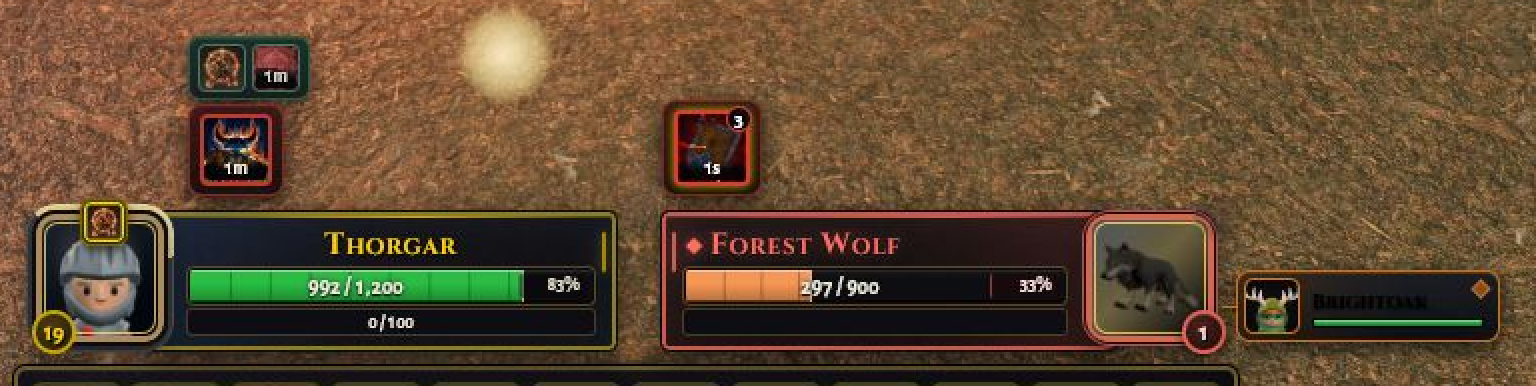
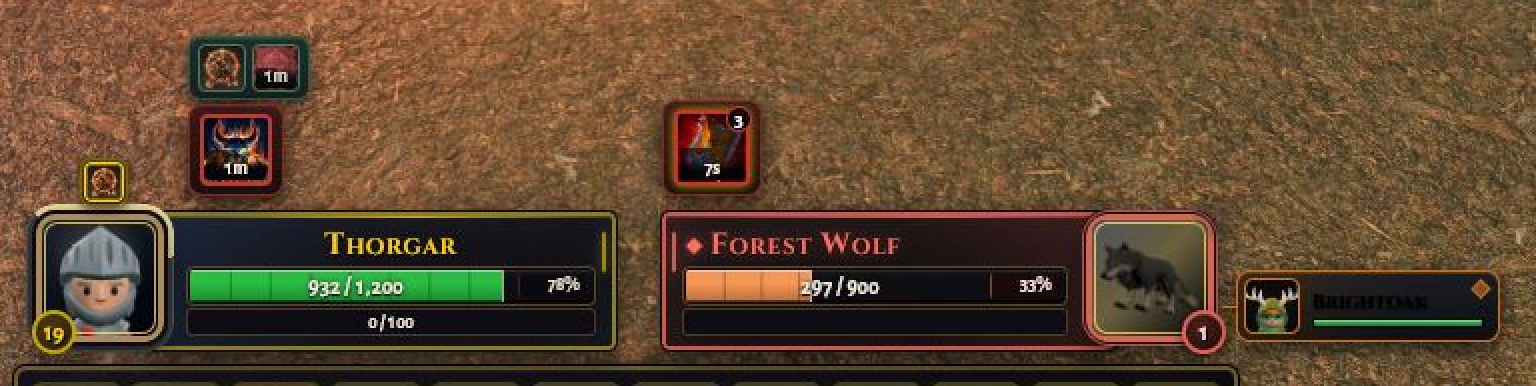
fix(ui): lift stance dock above portrait

diff --git a/tests/unit_frame_skin.test.ts b/tests/unit_frame_skin.test.ts
@@ -80,7 +80,7 @@ describe('unit frame visual identity', () => {
     );
     expect(hudCss).toMatch(/body\.show-actionbar2 #target-frame \{\s*bottom: 134px;/);
     expect(hudCss).toMatch(
-      /#player-frame #stancebar \{[\s\S]*?position: absolute;[\s\S]*?top: -8px;[\s\S]*?left: 50%;[\s\S]*?padding: 1px;/,
+      /#player-frame #stancebar \{[\s\S]*?position: absolute;[\s\S]*?bottom: calc\(100% \+ 4px\);[\s\S]*?left: 50%;[\s\S]*?padding: 1px;/,
     );
     expect(hudCss).toMatch(/\.stance-btn \{[\s\S]*?width: 20px;[\s\S]*?height: 20px;/);
     expect(hudTs).not.toContain("document.body.classList.toggle('show-stancebar'");

diff --git a/src/styles/hud.css b/src/styles/hud.css
@@ -2641,7 +2641,8 @@
   #player-frame #stancebar {
     display: none;
     position: absolute;
-    top: -8px;
+    top: auto;
+    bottom: calc(100% + 4px);
     left: 50%;
     z-index: 7;
     margin: 0;
